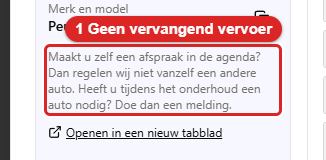
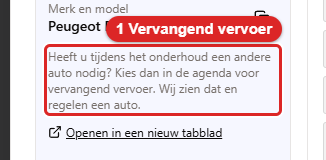
fix(portal): agenda note says to choose replacement transport there (Kees 2026-10-29)
The garage planner's mail now carries the choice for replacement
transport, and the app puts a TBD vervangend vervoer ready for it.
Text in 7 locales, section 3.7 and its picture updated.

diff --git a/docs/gebruikershandleiding/03-klanten.md b/docs/gebruikershandleiding/03-klanten.md
@@ -666,12 +666,13 @@ opent eerst dezelfde soort keuze als bij de APK.
 
    **Melding doen** opent het gewone meldingsformulier. Jij plant het onderhoud in. Jij regelt ook
    een vervangende auto als dat nodig is. Zie hoofdstuk 16.4.
-2. **Agenda openen** toont de online agenda van de garage. Daarnaast staat een waarschuwing: een
-   afspraak die de klant zelf maakt, regelt niet vanzelf een vervangende auto. Heeft de klant een
-   auto nodig? Dan moet hij een melding doen.
+2. **Agenda openen** toont de online agenda van de garage. Daarnaast staat een korte uitleg: heeft de
+   klant tijdens het onderhoud een andere auto nodig? Dan kiest hij in de agenda voor vervangend
+   vervoer. De app ziet dat in de mail van de garage en zet een **TBD vervangend vervoer** klaar
+   (hoofdstuk 7.10). Dat werkt alleen als de afzender van de garageplanner is ingevuld (hoofdstuk 9.9).
 
-   ![De open agenda bij Onderhoud melden met de waarschuwing over vervangend vervoer (1)](afbeeldingen/03-portaal-onderhoud-agenda.png)
-   *1 is de waarschuwing: een eigen afspraak regelt geen vervangende auto.*
+   ![De open agenda bij Onderhoud melden met de uitleg over vervangend vervoer (1)](afbeeldingen/03-portaal-onderhoud-agenda.png)
+   *1 is de uitleg over vervangend vervoer.*
 
 Opent de klant **Onderhoud melden** vanaf het overzicht? Dan staat er nog geen auto in het venster.
 In het meldingsformulier kiest de klant zelf de reservering.
